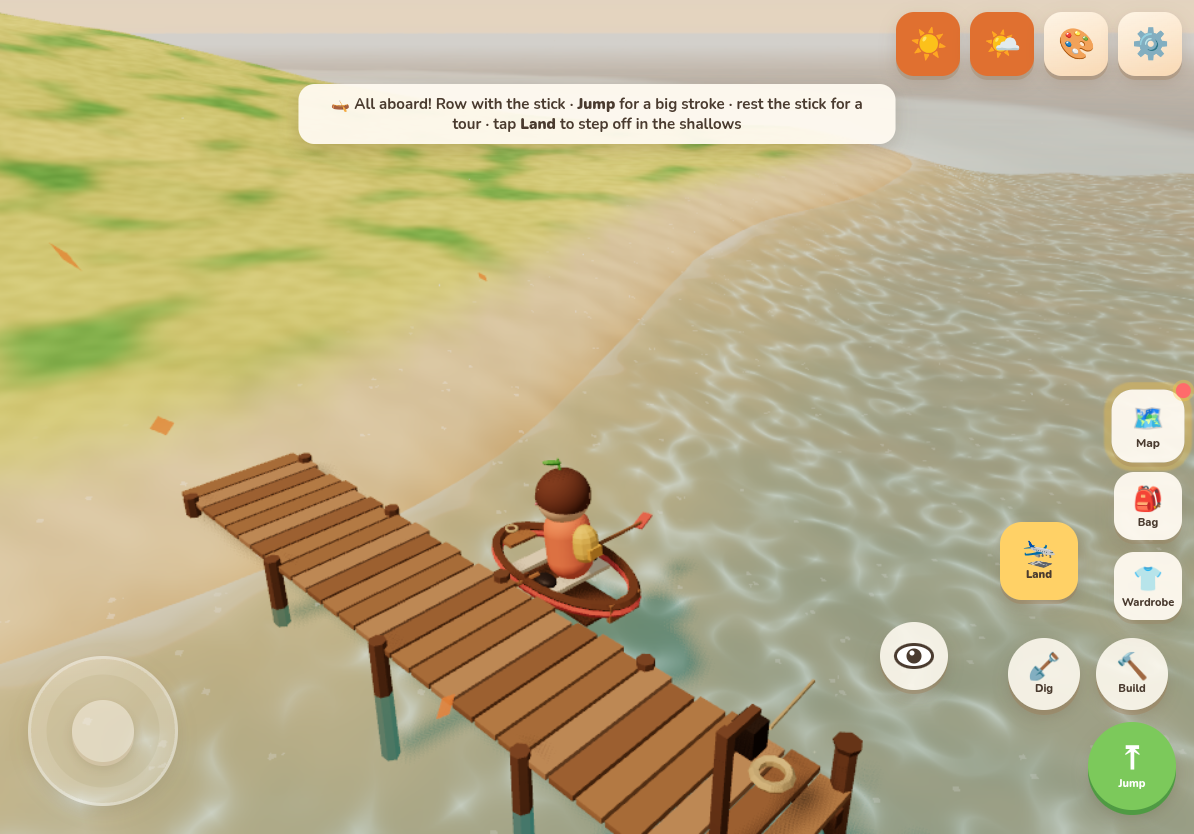
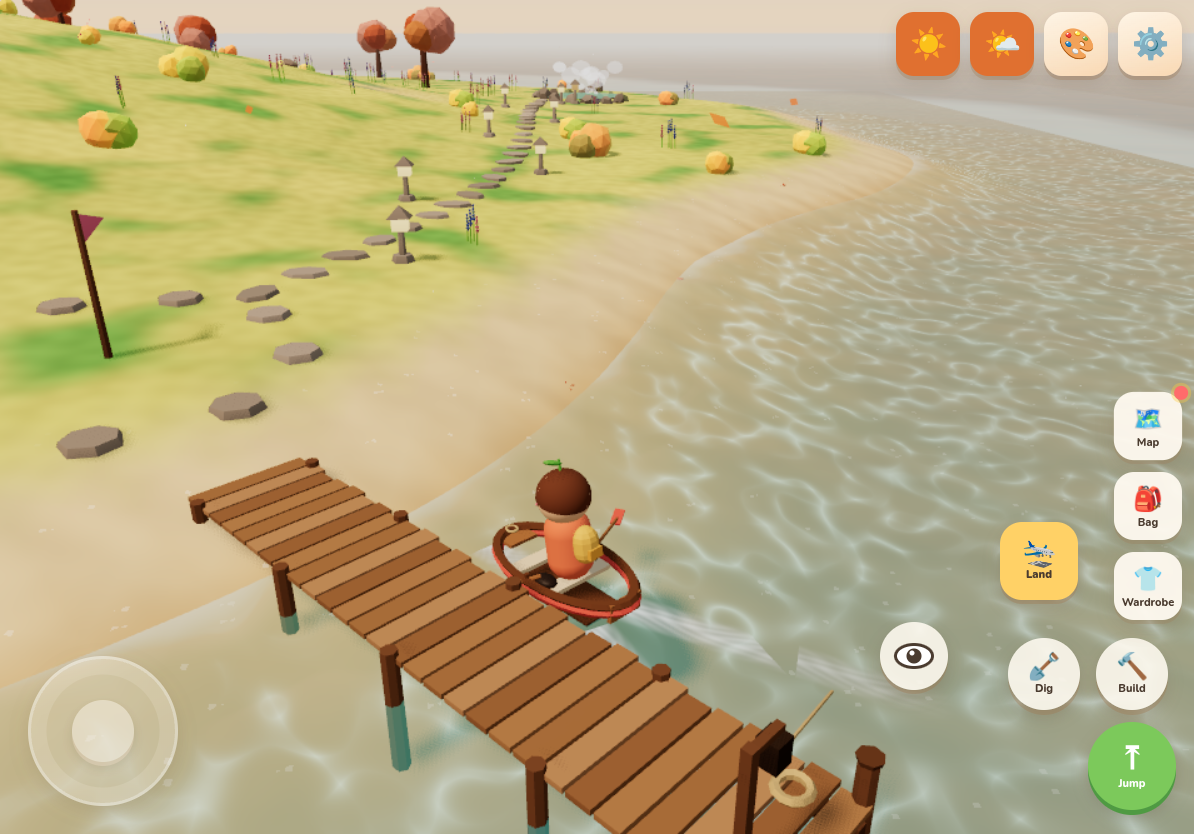
Order 51c: rowboat wake (foamy V from the stern + bow foam, one draw each, fades with speed, above the waterline); tests/boat-dock.mjs 11/11, boat 9/9

diff --git a/src/player/MountArt.ts b/src/player/MountArt.ts
@@ -41,6 +41,8 @@ export interface MountRig {
   /** burner heat 0..~6, set by Mount each frame (flame size) */
   heat?: number;
   animate?: (t: number, dt: number, phase: RigPhase, speed: number, flap: number) => void;
+  /** Order 51c: current wake strength (0 = none), for tests */
+  wake?: () => number;
 }
 
 const SCALE = 1.55;
@@ -492,6 +494,32 @@ function balloon(): MountRig {
   return finish(r, 1.25);
 }
 
+/**
+ * boat wake textures: `froth` tiles along the streak and scrolls back while rowing; `fade` (alpha map, static) is
+ * bright at the stern, fading behind and soft at the sides. Shared canvas textures, made once.
+ */
+let _wake: { froth: THREE.CanvasTexture; fade: THREE.CanvasTexture } | null = null;
+function wakeTex() {
+  if (_wake) return _wake;
+  const W = 32, H = 128;
+  const make = (f: (u: number, v: number) => number) => {
+    const c = document.createElement('canvas'); c.width = W; c.height = H;
+    const g = c.getContext('2d')!, img = g.createImageData(W, H);
+    for (let y = 0; y < H; y++) for (let x = 0; x < W; x++) {
+      const a = Math.round(255 * Math.max(0, Math.min(1, f(x / (W - 1), y / H)))), i = (y * W + x) * 4;
+      img.data[i] = img.data[i + 1] = img.data[i + 2] = a; img.data[i + 3] = 255;
+    }
+    g.putImageData(img, 0, 0); return new THREE.CanvasTexture(c);
+  };
+  const TAU = Math.PI * 2;
+  const froth = make((u, v) => 0.86 + 0.14 * Math.sin(v * TAU * 6 + Math.sin(u * 9) * 2) * Math.sin(u * 23 + Math.sin(v * TAU * 2) * 3));
+  froth.wrapT = THREE.RepeatWrapping; froth.colorSpace = THREE.SRGBColorSpace;
+  // canvas row 0 is the far end of the streak (flipY), the last row sits at the stern
+  const fade = make((u, v) => Math.sin(Math.PI * u) ** 1.5 * (0.2 + 0.8 * v) * Math.min(1, v * 5));
+  _wake = { froth, fade };
+  return _wake;
+}
+
 /** rowboat (Order 51a): planked wooden hull (origin = waterline), thwart seats, a bow ring, two oars on the wing hinges */
 function rowboat(): MountRig {
   const k = new Kit(), r = empty('rowboat', k);
@@ -521,7 +549,29 @@ function rowboat(): MountRig {
     oar.add(k.mesh(new THREE.BoxGeometry(0.22, 0.02, 0.1), paint, [s * 0.92, -0.2, 0], [1, 1, 1], [0, 0, s * 0.22]));
     root.add(k.mesh(new THREE.CylinderGeometry(0.02, 0.02, 0.08, 6), dark, [0, 0.02, 0]));
   }
-  r.animate = (t, _dt, ph, speed, flap) => {
+  // Order 51c: a foamy V wake trailing from the stern (own material, so call/leave fades don't touch it); one draw each
+  const wakeMat = new THREE.MeshBasicNodeMaterial({ map: wakeTex().froth, alphaMap: wakeTex().fade, transparent: true, depthWrite: false, opacity: 0, color: 0xffffff });
+  wakeMat.polygonOffset = true; wakeMat.polygonOffsetFactor = -2;
+  // both V arms in one hand-built geometry (one draw): uv u across the arm, v = 0 at the stern, 1 at the far end
+  const pos: number[] = [], uv: number[] = [], idx: number[] = [];
+  for (const sd of [1, -1]) {
+    const a = sd * 0.3, dx = Math.sin(a), dz = -Math.cos(a), px = -dz, pz = dx, L = 2.6, hw = 0.21, x0 = sd * 0.2, b = pos.length / 3;
+    for (const [t, v] of [[0, 0], [L, 1]]) for (const [w, u] of [[-hw, 0], [hw, 1]]) { pos.push(x0 + dx * t + px * w, 0, dz * t + pz * w); uv.push(u, v); }
+    idx.push(b, b + 1, b + 2, b + 1, b + 3, b + 2, b, b + 2, b + 1, b + 1, b + 2, b + 3);
+  }
+  const wakeG = new THREE.BufferGeometry(); wakeG.setAttribute('position', new THREE.Float32BufferAttribute(pos, 3)); wakeG.setAttribute('uv', new THREE.Float32BufferAttribute(uv, 2)); wakeG.setIndex(idx);
+  const wake = new THREE.Mesh(wakeG, wakeMat); wake.position.set(0, -0.08, -0.55); wake.renderOrder = 2; body.add(wake); // just above the waterline (was under it: hidden from above)
+  const bowG = new THREE.PlaneGeometry(0.5, 0.9); bowG.rotateX(-Math.PI / 2);
+  const bow = new THREE.Mesh(bowG, wakeMat); bow.position.set(0, -0.13, 0.55); bow.renderOrder = 2; body.add(bow);
+  wake.visible = bow.visible = false;
+  r.wake = () => (wake.visible ? +wakeMat.opacity.toFixed(2) : 0);
+  r.animate = (t, dt, ph, speed, flap) => {
+    // wake: fades in with speed and scrolls back along the streaks
+    const wa = ph === 'ride' ? Math.min(0.8, Math.max(0, speed - 0.4) * 0.16) : 0;
+    wakeMat.opacity += (wa - wakeMat.opacity) * Math.min(1, dt * 3);
+    wake.visible = bow.visible = wakeMat.opacity > 0.02;
+    if (wake.visible && wakeMat.map) wakeMat.map.offset.y = (wakeMat.map.offset.y + dt * speed * 0.35) % 1;
+    wake.rotation.x = -body.rotation.x; wake.rotation.z = -body.rotation.z;
     // a rowing stroke: sweep back with blades in, lift and return; resting oars trail in the water
     const row = ph === 'ride' && speed > 0.4 ? 1 : 0.15;
     for (let i = 0; i < 2; i++) { const s = i ? -1 : 1, o = oars[i]; o.rotation.y = s * Math.sin(flap) * 0.55 * row; o.rotation.x = 0; o.rotation.z = -s * Math.max(0, Math.cos(flap)) * 0.18 * row; }
@@ -530,7 +580,9 @@ function rowboat(): MountRig {
     body.rotation.z = Math.sin(t * 1.1) * 0.04; body.rotation.x = Math.sin(t * 0.8 + 1) * 0.025 - Math.min(0.05, speed * 0.006);
     head.rotation.set(0, 0, 0); tail.rotation.set(0, 0, 0);
   };
-  return finish(r, 1.5);
+  finish(r, 1.5);
+  wake.castShadow = bow.castShadow = false; // foam casts no shadow
+  return r;
 }
 
 export const BUILDERS: Record<MountId, () => MountRig> = { eagle, pterodactyl, cloud_puppy: cloudPuppy, unicorn, dragonfly, sea_turtle: seaTurtle, balloon, rowboat };

diff --git a/src/player/Mount.ts b/src/player/Mount.ts
@@ -703,7 +703,7 @@ export class Mount implements System {
       phase: this.phase, riding: this.riding, carrying: this.carrying, button: this.buttonState,
       pos: [this.gx, this.gy, this.gz].map((n) => +n.toFixed(2)), alt: +this.alt.toFixed(2), speed: +this.speed.toFixed(2),
       heading: +this.heading.toFixed(2), autopilot: this.autopilot, tours: this.tours, idle: +this.idleT.toFixed(2), rides: this.rides, landings: this.landings, calls: this.calls, target: this.target,
-      mounted: this.player.mounted, visible: this.object.visible, swim: this.swims, dive: +this.dive.toFixed(2), dives: this.dives, boat: this.boat, strokes: this.strokes, blocked: +this.blockedT.toFixed(2), moored: this.moored, dockings: this.dockings, balloon: this.floats, heat: +(this.current.heat ?? 0).toFixed(2), padFrom: this.padFrom,
+      mounted: this.player.mounted, visible: this.object.visible, swim: this.swims, dive: +this.dive.toFixed(2), dives: this.dives, boat: this.boat, strokes: this.strokes, blocked: +this.blockedT.toFixed(2), moored: this.moored, dockings: this.dockings, wake: this.current.wake?.() ?? 0, balloon: this.floats, heat: +(this.current.heat ?? 0).toFixed(2), padFrom: this.padFrom,
     };
   }
 }

diff --git a/BACKLOG.md b/BACKLOG.md
@@ -12,7 +12,7 @@ Anything that needs Walker (decisions, approvals) goes to The Boss as a short no
 |---|---|---|---|---|
 | 49 | Day/night cycle with stars; frog chorus at night (no longer tied to themes); lighthouse beam sweeps at night | DONE 2026-10-30 (4 days ahead of ETA) | 2026-11-03 | 2 |
 | 50 | Weather: gentle rain, winter snow, rainbows after rain, theme-aware | DONE 2026-11-01 (5 days ahead of ETA) | 2026-11-06 | 2 |
-| 51 | Rowboat or sailboat for travelling between the islets | In progress (51a-51b done) | 2026-11-10 | 2.5 |
+| 51 | Rowboat or sailboat for travelling between the islets | In progress (51a-51c done) | 2026-11-10 | 2.5 |
 | 52 | Fishing, plus a collection journal (fish, creatures, treasures) with completion rewards | To do | 2026-11-16 | 3.5 |
 | 53 | Cottage interiors and decorating: furniture inside the house you build | To do | 2026-11-21 | 3.5 |
 
@@ -30,6 +30,7 @@ Next backlog picked by Walker 2026-10-29 10:54 AM CT (relayed by The Boss). The 
 
 - 51a DONE (2026-11-02): Rowboat mount (🛶, `rowboat` in MountDefs, unlocked by `save.boat`; hidden from the mount picker until it's yours; `?boat=1` hands it over for tests). Planked wooden hull with a painted stripe, gunwale rim, thwart seats, a bow ring and two oars that row with the stroke. Floats on top of the water (waterline +0.24 m) with a gentle bob and roll; Jump is a big oar stroke (never a dive); stops in the shallows instead of beaching; crosses open sea past the sea turtle's reef leash (fly leash applies, so every islet is in reach). tests/boat.mjs 9/9 (iPad viewport, real tap on the Mount button).
 - 51b DONE (2026-11-02): docks (`src/world/Docks.ts`). One wooden jetty (6-18 m, planks, stringers, posts with bollards, a lantern and a rope coil; one baked mesh plus one deck collider each) on the main island (Home Dock, facing Blossom Isle) and on every islet (facing home), sited on the shortest run from dry ground to 1.5 m of water, away from Lighthouse Point, the wreck and the cave. The rowboat starts tied up at the Home Dock with a bob; walking onto the deck shows 🛶 Take Rowboat (first time: it becomes yours) / Row Boat, and tap-to-walk works on it. Tapping boards it from the mooring. Land by any dock's mooring ties it up there and steps you onto the deck; the save remembers which dock (`boatDock`), and a boat sent off elsewhere goes back to its last dock. Toast hint updated. New tests/boat-dock.mjs 10/10 (iPad viewport: real taps on the action and Land buttons; rows Home Dock to Blossom Isle in about 17 s, ties up, reloads, rows home); tests/boat.mjs 9/9.
+- 51c DONE (2026-11-03): rowboat wake. A foamy V wake trails from the stern (both arms in one hand-built mesh, one draw) plus a small bow foam patch sharing its material; froth texture scrolls back with speed, soft alpha fade at the sides and far end; fades in with rowing speed (max opacity 0.8 at full speed) and out when resting or docked; sits just above the waterline so it reads from a high camera too, counter-rotates the hull roll, casts no shadow. tests/boat-dock.mjs 11/11 (new wake check: 0.8 while rowing, 0 at rest; screenshot 101 from a high camera), tests/boat.mjs 9/9.
 
 ### Order 50 detail (DONE 2026-11-01, 5 days ahead of the 2026-11-06 ETA)
 
